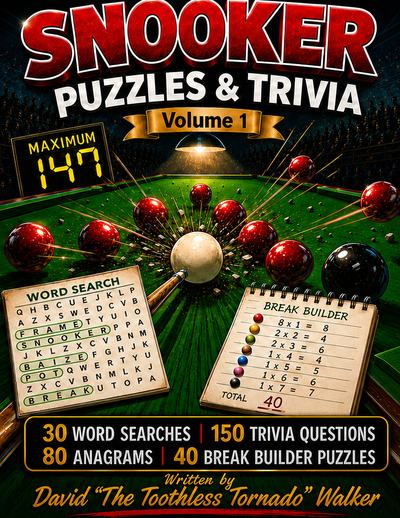
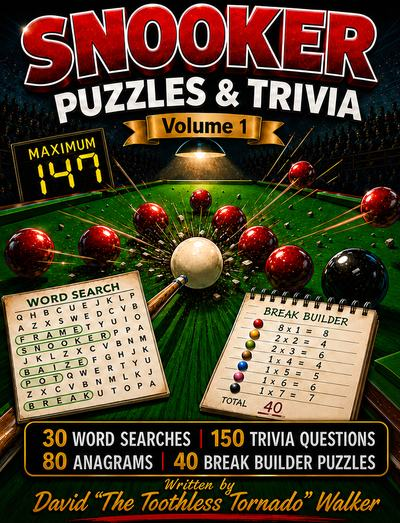
Whole book at every width; full cover crop
- Book mockup redrawn with flat 2D shapes (real cover face-on, real spine
  strip and a page edge receding up and left). No perspective or 3D
  transforms, so iPhone Safari can no longer hide part of the cover.
- Cover crop keeps the top bleed: the SNOOKER lettering runs into it and
  trimming exactly 0.125 inch clipped the tops of the letters. Bleed still
  comes off the bottom and outside edge.
- make-images.py writes sizes.json; build.js uses the real cover size.
- Hero image sizes hint matches the phone layout (50vw).

diff --git a/site/index.html b/site/index.html
@@ -45,7 +45,7 @@
         <p class="hero-note">New: <strong>Snooker Puzzles &amp; Trivia, Volume 1</strong>. Darts is next.</p>
       </div>
       <div class="hero-book">
-        <!-- build:featured --><a class="featured-book" href="/snooker/volume-1/" aria-label="See Snooker Puzzles &amp; Trivia Volume 1"><span class="book3d book3d-hero"><span class="book3d-inner"><span class="book3d-spine" style="background-image:url(/assets/img/books/snooker-volume-1/spine.jpg);background-image:image-set(url(/assets/img/books/snooker-volume-1/spine.webp) type('image/webp'),url(/assets/img/books/snooker-volume-1/spine.jpg) type('image/jpeg'))"></span><span class="book3d-cover"><picture><source type="image/webp" srcset="/assets/img/books/snooker-volume-1/cover-400.webp 400w, /assets/img/books/snooker-volume-1/cover-760.webp 760w" sizes="(max-width: 820px) 62vw, 360px"><img src="/assets/img/books/snooker-volume-1/cover-400.jpg" srcset="/assets/img/books/snooker-volume-1/cover-400.jpg 400w, /assets/img/books/snooker-volume-1/cover-760.jpg 760w" sizes="(max-width: 820px) 62vw, 360px" width="400" height="518" alt="Front cover of Snooker Puzzles &amp; Trivia Volume 1 by David Walker" fetchpriority="high"></picture></span></span></span></a><!-- /build -->
+        <!-- build:featured --><a class="featured-book" href="/snooker/volume-1/" aria-label="See Snooker Puzzles &amp; Trivia Volume 1"><span class="book3d book3d-hero"><span class="book3d-inner"><span class="book3d-top"></span><span class="book3d-spine" style="background-image:url(/assets/img/books/snooker-volume-1/spine.jpg);background-image:image-set(url(/assets/img/books/snooker-volume-1/spine.webp) type('image/webp'),url(/assets/img/books/snooker-volume-1/spine.jpg) type('image/jpeg'))"></span><span class="book3d-cover"><picture><source type="image/webp" srcset="/assets/img/books/snooker-volume-1/cover-400.webp 400w, /assets/img/books/snooker-volume-1/cover-760.webp 760w" sizes="(max-width: 820px) 50vw, 340px"><img src="/assets/img/books/snooker-volume-1/cover-400.jpg" srcset="/assets/img/books/snooker-volume-1/cover-400.jpg 400w, /assets/img/books/snooker-volume-1/cover-760.jpg 760w" sizes="(max-width: 820px) 50vw, 340px" width="400" height="523" alt="Front cover of Snooker Puzzles &amp; Trivia Volume 1 by David Walker" fetchpriority="high"></picture></span></span></span></a><!-- /build -->
       </div>
     </div>
   </section>
@@ -77,7 +77,7 @@
       </div>
       <div class="shelf">
         <!-- build:shelf --><article class="shelf-card">
-  <a class="shelf-cover" href="/snooker/volume-1/" tabindex="-1" aria-hidden="true"><span class="book3d"><span class="book3d-inner"><span class="book3d-spine" style="background-image:url(/assets/img/books/snooker-volume-1/spine.jpg);background-image:image-set(url(/assets/img/books/snooker-volume-1/spine.webp) type('image/webp'),url(/assets/img/books/snooker-volume-1/spine.jpg) type('image/jpeg'))"></span><span class="book3d-cover"><picture><source type="image/webp" srcset="/assets/img/books/snooker-volume-1/cover-400.webp 400w, /assets/img/books/snooker-volume-1/cover-760.webp 760w" sizes="(max-width: 820px) 46vw, 220px"><img src="/assets/img/books/snooker-volume-1/cover-400.jpg" srcset="/assets/img/books/snooker-volume-1/cover-400.jpg 400w, /assets/img/books/snooker-volume-1/cover-760.jpg 760w" sizes="(max-width: 820px) 46vw, 220px" width="400" height="518" alt="Front cover of Snooker Puzzles &amp; Trivia Volume 1 by David Walker" loading="lazy" decoding="async"></picture></span></span></span></a>
+  <a class="shelf-cover" href="/snooker/volume-1/" tabindex="-1" aria-hidden="true"><span class="book3d"><span class="book3d-inner"><span class="book3d-top"></span><span class="book3d-spine" style="background-image:url(/assets/img/books/snooker-volume-1/spine.jpg);background-image:image-set(url(/assets/img/books/snooker-volume-1/spine.webp) type('image/webp'),url(/assets/img/books/snooker-volume-1/spine.jpg) type('image/jpeg'))"></span><span class="book3d-cover"><picture><source type="image/webp" srcset="/assets/img/books/snooker-volume-1/cover-400.webp 400w, /assets/img/books/snooker-volume-1/cover-760.webp 760w" sizes="(max-width: 820px) 46vw, 220px"><img src="/assets/img/books/snooker-volume-1/cover-400.jpg" srcset="/assets/img/books/snooker-volume-1/cover-400.jpg 400w, /assets/img/books/snooker-volume-1/cover-760.jpg 760w" sizes="(max-width: 820px) 46vw, 220px" width="400" height="523" alt="Front cover of Snooker Puzzles &amp; Trivia Volume 1 by David Walker" loading="lazy" decoding="async"></picture></span></span></span></a>
   <div class="shelf-body">
     <p class="eyebrow">Snooker <span aria-hidden="true">&middot;</span> Volume 1</p>
     <h3><a href="/snooker/volume-1/">Snooker Puzzles &amp; Trivia</a></h3>
@@ -103,7 +103,7 @@
       </div>
       <div class="formats">
         <div class="format">
-          <div class="format-visual"><!-- build:mockup snooker-volume-1 --><span class="book3d"><span class="book3d-inner"><span class="book3d-spine" style="background-image:url(/assets/img/books/snooker-volume-1/spine.jpg);background-image:image-set(url(/assets/img/books/snooker-volume-1/spine.webp) type('image/webp'),url(/assets/img/books/snooker-volume-1/spine.jpg) type('image/jpeg'))"></span><span class="book3d-cover"><picture><source type="image/webp" srcset="/assets/img/books/snooker-volume-1/cover-400.webp 400w, /assets/img/books/snooker-volume-1/cover-760.webp 760w" sizes="(max-width: 820px) 46vw, 220px"><img src="/assets/img/books/snooker-volume-1/cover-400.jpg" srcset="/assets/img/books/snooker-volume-1/cover-400.jpg 400w, /assets/img/books/snooker-volume-1/cover-760.jpg 760w" sizes="(max-width: 820px) 46vw, 220px" width="400" height="518" alt="Front cover of Snooker Puzzles &amp; Trivia Volume 1 by David Walker" loading="lazy" decoding="async"></picture></span></span></span><!-- /build --></div>
+          <div class="format-visual"><!-- build:mockup snooker-volume-1 --><span class="book3d"><span class="book3d-inner"><span class="book3d-top"></span><span class="book3d-spine" style="background-image:url(/assets/img/books/snooker-volume-1/spine.jpg);background-image:image-set(url(/assets/img/books/snooker-volume-1/spine.webp) type('image/webp'),url(/assets/img/books/snooker-volume-1/spine.jpg) type('image/jpeg'))"></span><span class="book3d-cover"><picture><source type="image/webp" srcset="/assets/img/books/snooker-volume-1/cover-400.webp 400w, /assets/img/books/snooker-volume-1/cover-760.webp 760w" sizes="(max-width: 820px) 46vw, 220px"><img src="/assets/img/books/snooker-volume-1/cover-400.jpg" srcset="/assets/img/books/snooker-volume-1/cover-400.jpg 400w, /assets/img/books/snooker-volume-1/cover-760.jpg 760w" sizes="(max-width: 820px) 46vw, 220px" width="400" height="523" alt="Front cover of Snooker Puzzles &amp; Trivia Volume 1 by David Walker" loading="lazy" decoding="async"></picture></span></span></span><!-- /build --></div>
           <div class="format-body">
             <h3>Paperback</h3>
             <p>Large 8.5 by 11 inch pages with plenty of room to write. Sold on Amazon, and a good gift for the fan who has everything.</p>

diff --git a/site/assets/css/site.css b/site/assets/css/site.css
@@ -130,33 +130,36 @@ p { margin: 0 0 1em; max-width: 66ch; }
 .btn-plain { background: var(--white); color: var(--felt); border-color: var(--felt); }
 .btn-plain:hover { background: #e8f0e9; color: var(--felt-deep); }
 
-/* ---------- the 3D book: real cover image on the front, real spine strip on the side ---------- */
-.book3d { --w: 220px; --t: calc(var(--w) * .055); display: block; width: var(--w); perspective: 1400px; position: relative; }
-.book3d-hero { --w: min(360px, 62vw); }
+/* ---------- the book mockup: real cover face-on, real spine strip and a page edge drawn
+   as flat 2D shapes receding up and to the left. No perspective or 3D transforms, so every
+   browser (including iPhone Safari) draws the whole book at every size. ---------- */
+.book3d { --w: 220px; --t: calc(var(--w) * .06); display: block; position: relative; isolation: isolate; width: calc(var(--w) + var(--t)); padding: var(--t) 0 0 var(--t); }
+.book3d-hero { --w: min(340px, 60vw); }
 .book3d::after { /* shadow on the table */
-  content: ""; position: absolute; left: 4%; right: -6%; bottom: -5%; height: 9%;
-  background: radial-gradient(ellipse at center, rgba(0,0,0,.55), transparent 70%); filter: blur(6px); z-index: -1;
+  content: ""; position: absolute; left: 6%; right: -4%; bottom: -4%; height: 8%;
+  background: radial-gradient(ellipse at center, rgba(0,0,0,.5), transparent 70%); filter: blur(6px); z-index: -1;
 }
-.book3d-inner {
-  display: block; position: relative; transform-style: preserve-3d;
-  transform: rotateY(24deg) rotateX(3deg);
-  transition: transform .5s cubic-bezier(.2,.7,.2,1);
-}
-.book3d-cover { display: block; position: relative; transform: translateZ(calc(var(--t) / 2)); border-radius: 0 3px 3px 0; overflow: hidden; box-shadow: 0 24px 48px rgba(0,0,0,.45); }
+.book3d-inner { display: block; position: relative; width: var(--w); transition: transform .3s cubic-bezier(.2,.7,.2,1); }
+.book3d-cover { display: block; position: relative; z-index: 1; border-radius: 0 3px 3px 0; overflow: hidden; box-shadow: 6px 14px 30px rgba(0,0,0,.45); }
 .book3d-cover img { width: 100%; }
-.book3d-cover::after { /* soft light across the laminate; the cover itself is untouched */
+.book3d-cover::after { /* soft light across the laminate and a hinge line; the cover itself is untouched */
   content: ""; position: absolute; inset: 0; pointer-events: none;
   background:
-    linear-gradient(90deg, rgba(0,0,0,.28) 0, rgba(255,255,255,.18) 1.2%, rgba(0,0,0,.08) 3%, transparent 6%),
-    linear-gradient(115deg, rgba(255,255,255,.14) 0%, transparent 38%, transparent 70%, rgba(0,0,0,.12) 100%);
+    linear-gradient(90deg, rgba(0,0,0,.30) 0, rgba(255,255,255,.16) 1.4%, rgba(0,0,0,.06) 3.2%, transparent 6%),
+    linear-gradient(120deg, rgba(255,255,255,.12) 0%, transparent 40%, transparent 72%, rgba(0,0,0,.10) 100%);
 }
 .book3d-spine {
-  position: absolute; top: 0; left: 0; width: var(--t); height: 100%;
+  position: absolute; top: 0; left: calc(var(--t) * -1); width: var(--t); height: 100%;
   background-color: #111; background-size: 100% 100%;
-  transform-origin: left center; transform: translateZ(calc(var(--t) / 2)) rotateY(90deg);
-  filter: brightness(.75);
+  transform-origin: right top; transform: skewY(45deg); filter: brightness(.7);
 }
-a:hover > .book3d .book3d-inner, a:focus-visible > .book3d .book3d-inner { transform: rotateY(14deg) rotateX(2deg) translateY(-4px); }
+.book3d-top { /* the page block seen along the top edge */
+  position: absolute; left: 0; top: calc(var(--t) * -1); width: 100%; height: var(--t);
+  transform-origin: left bottom; transform: skewX(45deg);
+  background: repeating-linear-gradient(0deg, #efe9da 0 1px, #d9d1bd 1px 2px), #e9e2d0;
+  box-shadow: inset 0 0 0 1px rgba(0,0,0,.18);
+}
+a:hover > .book3d .book3d-inner, a:focus-visible > .book3d .book3d-inner { transform: translateY(-4px); }
 
 /* ---------- homepage hero ---------- */
 .hero { padding-block: clamp(2.5rem, 7vw, 5.5rem) clamp(3rem, 7vw, 5.5rem); overflow: hidden; }
@@ -324,7 +327,7 @@ a:hover > .book3d .book3d-inner, a:focus-visible > .book3d .book3d-inner { trans
   .hero .lede, .book-hero p { margin-inline: auto; }
   .hero-actions, .jump, .rail { justify-content: center; }
   .contents { grid-template-columns: repeat(2, 1fr); text-align: left; }
-  .book3d-hero { --w: min(300px, 50vw); }
+  .book3d-hero { --w: min(280px, 50vw); }
   .book-hero .book3d-hero { margin-inline: auto; }
   .shelf-card { grid-template-columns: 1fr; text-align: center; }
   .shelf-body p { margin-inline: auto; }
@@ -352,7 +355,6 @@ a:hover > .book3d .book3d-inner, a:focus-visible > .book3d .book3d-inner { trans
 @media (prefers-reduced-motion: reduce) {
   html { scroll-behavior: auto; }
   *, *::before, *::after { transition: none !important; animation: none !important; }
-  .book3d-inner, a:hover > .book3d .book3d-inner { transform: none; }
-  .book3d-spine { display: none; }
+  a:hover > .book3d .book3d-inner { transform: none; }
   .btn:hover, .page-thumb:hover img { transform: none; }
 }

diff --git a/site/snooker/volume-1/index.html b/site/snooker/volume-1/index.html
@@ -38,7 +38,7 @@
   <section class="felt book-hero">
     <div class="wrap book-hero-grid">
       <div class="hero-book">
-        <!-- build:mockup snooker-volume-1 hero --><span class="book3d book3d-hero"><span class="book3d-inner"><span class="book3d-spine" style="background-image:url(/assets/img/books/snooker-volume-1/spine.jpg);background-image:image-set(url(/assets/img/books/snooker-volume-1/spine.webp) type('image/webp'),url(/assets/img/books/snooker-volume-1/spine.jpg) type('image/jpeg'))"></span><span class="book3d-cover"><picture><source type="image/webp" srcset="/assets/img/books/snooker-volume-1/cover-400.webp 400w, /assets/img/books/snooker-volume-1/cover-760.webp 760w" sizes="(max-width: 820px) 62vw, 360px"><img src="/assets/img/books/snooker-volume-1/cover-400.jpg" srcset="/assets/img/books/snooker-volume-1/cover-400.jpg 400w, /assets/img/books/snooker-volume-1/cover-760.jpg 760w" sizes="(max-width: 820px) 62vw, 360px" width="400" height="518" alt="Front cover of Snooker Puzzles &amp; Trivia Volume 1 by David Walker" fetchpriority="high"></picture></span></span></span><!-- /build -->
+        <!-- build:mockup snooker-volume-1 hero --><span class="book3d book3d-hero"><span class="book3d-inner"><span class="book3d-top"></span><span class="book3d-spine" style="background-image:url(/assets/img/books/snooker-volume-1/spine.jpg);background-image:image-set(url(/assets/img/books/snooker-volume-1/spine.webp) type('image/webp'),url(/assets/img/books/snooker-volume-1/spine.jpg) type('image/jpeg'))"></span><span class="book3d-cover"><picture><source type="image/webp" srcset="/assets/img/books/snooker-volume-1/cover-400.webp 400w, /assets/img/books/snooker-volume-1/cover-760.webp 760w" sizes="(max-width: 820px) 50vw, 340px"><img src="/assets/img/books/snooker-volume-1/cover-400.jpg" srcset="/assets/img/books/snooker-volume-1/cover-400.jpg 400w, /assets/img/books/snooker-volume-1/cover-760.jpg 760w" sizes="(max-width: 820px) 50vw, 340px" width="400" height="523" alt="Front cover of Snooker Puzzles &amp; Trivia Volume 1 by David Walker" fetchpriority="high"></picture></span></span></span><!-- /build -->
       </div>
       <div>
         <ul class="rail" aria-hidden="true"><li></li><li></li><li></li><li></li><li></li><li></li><li></li></ul>
@@ -88,7 +88,7 @@
 
       <div class="editions">
         <article class="edition">
-          <div class="edition-visual"><!-- build:mockup snooker-volume-1 --><span class="book3d"><span class="book3d-inner"><span class="book3d-spine" style="background-image:url(/assets/img/books/snooker-volume-1/spine.jpg);background-image:image-set(url(/assets/img/books/snooker-volume-1/spine.webp) type('image/webp'),url(/assets/img/books/snooker-volume-1/spine.jpg) type('image/jpeg'))"></span><span class="book3d-cover"><picture><source type="image/webp" srcset="/assets/img/books/snooker-volume-1/cover-400.webp 400w, /assets/img/books/snooker-volume-1/cover-760.webp 760w" sizes="(max-width: 820px) 46vw, 220px"><img src="/assets/img/books/snooker-volume-1/cover-400.jpg" srcset="/assets/img/books/snooker-volume-1/cover-400.jpg 400w, /assets/img/books/snooker-volume-1/cover-760.jpg 760w" sizes="(max-width: 820px) 46vw, 220px" width="400" height="518" alt="Front cover of Snooker Puzzles &amp; Trivia Volume 1 by David Walker" loading="lazy" decoding="async"></picture></span></span></span><!-- /build --></div>
+          <div class="edition-visual"><!-- build:mockup snooker-volume-1 --><span class="book3d"><span class="book3d-inner"><span class="book3d-top"></span><span class="book3d-spine" style="background-image:url(/assets/img/books/snooker-volume-1/spine.jpg);background-image:image-set(url(/assets/img/books/snooker-volume-1/spine.webp) type('image/webp'),url(/assets/img/books/snooker-volume-1/spine.jpg) type('image/jpeg'))"></span><span class="book3d-cover"><picture><source type="image/webp" srcset="/assets/img/books/snooker-volume-1/cover-400.webp 400w, /assets/img/books/snooker-volume-1/cover-760.webp 760w" sizes="(max-width: 820px) 46vw, 220px"><img src="/assets/img/books/snooker-volume-1/cover-400.jpg" srcset="/assets/img/books/snooker-volume-1/cover-400.jpg 400w, /assets/img/books/snooker-volume-1/cover-760.jpg 760w" sizes="(max-width: 820px) 46vw, 220px" width="400" height="523" alt="Front cover of Snooker Puzzles &amp; Trivia Volume 1 by David Walker" loading="lazy" decoding="async"></picture></span></span></span><!-- /build --></div>
           <div>
             <h3>Paperback</h3>
             <p class="for">For the shelf, the armchair, or a gift</p>

diff --git a/tools/build.js b/tools/build.js
@@ -33,6 +33,12 @@ const img = (b) => `/assets/img/books/${b.id}`;
 const hasFile = (p) => fs.existsSync(path.join(SITE, p));
 const hasCover = (b) => hasFile(`${img(b)}/cover-400.webp`);
 const fullTitle = (b) => `${b.title} Volume ${b.volume}`;
+// exact cover sizes written by tools/make-images.py (falls back to 8.5 x 11 proportions)
+function coverSize(b) {
+  const p = path.join(SITE, img(b), "sizes.json");
+  const s = fs.existsSync(p) ? JSON.parse(fs.readFileSync(p, "utf8"))["cover-400"] : null;
+  return s || [400, 518];
+}
 const link = (url) => url || FALLBACK;
 
 function book(id) {
@@ -52,11 +58,13 @@ const blocks = {
   mockup(b, opt) {
     const hero = opt === "hero";
     const spine = `${img(b)}/spine`;
-    const sizes = hero ? "(max-width: 820px) 62vw, 360px" : "(max-width: 820px) 46vw, 220px";
+    const sizes = hero ? "(max-width: 820px) 50vw, 340px" : "(max-width: 820px) 46vw, 220px";
+    const [cw, ch] = coverSize(b);
     return `<span class="book3d${hero ? " book3d-hero" : ""}">` +
       `<span class="book3d-inner">` +
+      `<span class="book3d-top"></span>` +
       `<span class="book3d-spine" style="background-image:url(${spine}.jpg);background-image:image-set(url(${spine}.webp) type('image/webp'),url(${spine}.jpg) type('image/jpeg'))"></span>` +
-      `<span class="book3d-cover">${picture(b, `${img(b)}/cover`, [400, 760], sizes, `Front cover of ${fullTitle(b)} by David Walker`, 400, 518, hero)}</span>` +
+      `<span class="book3d-cover">${picture(b, `${img(b)}/cover`, [400, 760], sizes, `Front cover of ${fullTitle(b)} by David Walker`, cw, ch, hero)}</span>` +
       `</span></span>`;
   },
 

diff --git a/tools/make-images.py b/tools/make-images.py
@@ -13,9 +13,11 @@ Writes to site/assets/img/books/BOOK_ID/:
   spine (.webp and .jpg)          the spine strip, for the 3D mockup
   page-N-600/1200 (.webp and .jpg) inside pages from the write-on PDF
   og (.jpg)                        1200 x 630 share image
+  sizes.json                       exact image sizes, read by tools/build.js
 Cover text is never redrawn: every image is a straight crop or render of your own files.
 """
 import io
+import json
 import os
 import sys
 
@@ -63,12 +65,15 @@ def main():
 
     wrap = pymupdf.open(wrap_pdf)[0]
     right = wrap.rect.width - BLEED
-    front = pymupdf.Rect(right - TRIM_W, BLEED, right, BLEED + TRIM_H)
+    # Bleed comes off the bottom and the outside edge. The top bleed is kept because cover
+    # titles often run into it (Snooker Volume 1's lettering does), and trimming it clips them.
+    front = pymupdf.Rect(right - TRIM_W, 0, right, BLEED + TRIM_H)
     spine = pymupdf.Rect(BLEED + TRIM_W, BLEED, right - TRIM_W, BLEED + TRIM_H)
 
     cover = render(wrap, front, 300)
+    sizes = {}
     for wdt in (400, 760):
-        save(cover, out, f"cover-{wdt}", wdt, quality=72)
+        sizes[f"cover-{wdt}"] = save(cover, out, f"cover-{wdt}", wdt, quality=72).size
     sp = render(wrap, spine, 150)
     save(sp, out, "spine", quality=75)
     og_image(cover, out)
@@ -79,6 +84,8 @@ def main():
         for wdt in (600, 1200):
             save(img, out, f"page-{n}-{wdt}", wdt, quality=78)
 
+    with open(os.path.join(out, "sizes.json"), "w") as f:
+        json.dump(sizes, f, indent=2)
     print("Wrote", len(os.listdir(out)), "files to", out)
     print("Spine width in points:", round(spine.width, 2))
 
